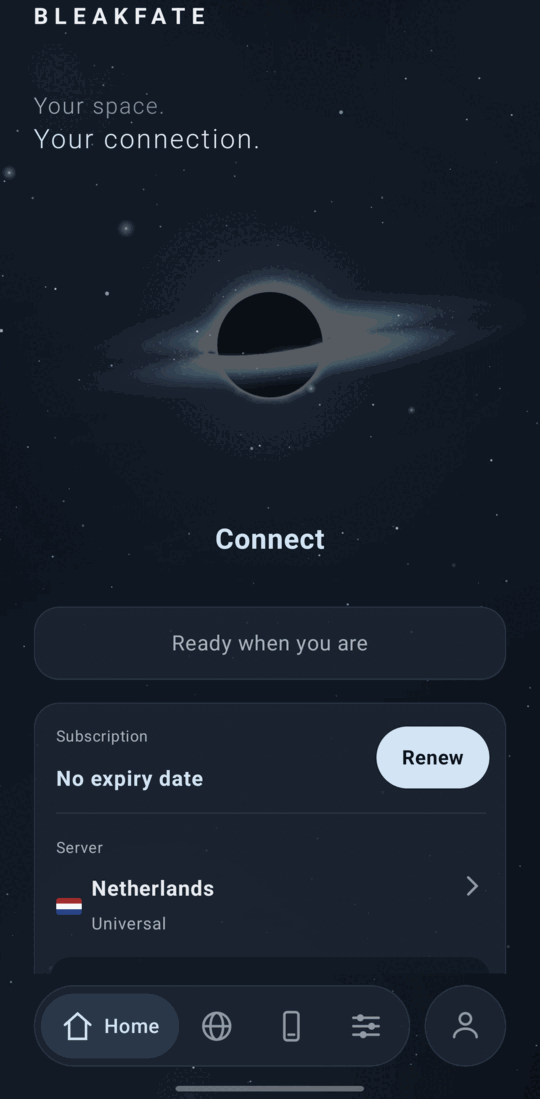
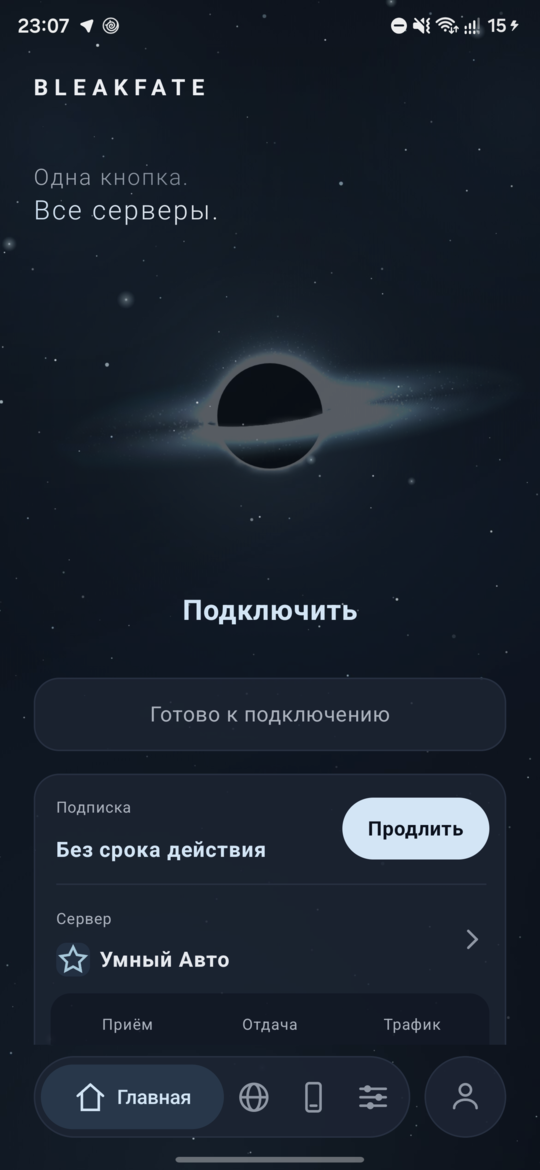
Скриншоты версии 0.8.2 на русском
Что изменилось для человека: на странице настоящие скриншоты 0.8.2 — «Главная» с выключенным и включённым VPN,
«Серверы», «Настройки».

Как проверить: открыть README.

diff --git a/README.ru.md b/README.ru.md
@@ -31,10 +31,10 @@
 
 <p align="center">
   <img src=".github/readme/screens/home-off.png" width="24%" alt="Главная с выключенным VPN: тёмная чёрная дыра и кнопка «Подключить»">
-  <img src=".github/readme/screens/home-on.png" width="24%" alt="Главная с включённым VPN: дыра светится, статус «Подключено»">
+  <img src=".github/readme/screens/home-on.png" width="24%" alt="Главная с включённым VPN: дыра светится, подключено через «Умный Авто»">
   <img src=".github/readme/screens/servers.png" width="24%" alt="Серверы: «Умный Авто» и список стран">
   <img src=".github/readme/screens/settings.png" width="24%" alt="Настройки: прокси по приложениям, оформление, соединение">
-  <br><sub>Скриншоты версии 0.7.1 с английским интерфейсом; 0.8.2 выглядит так же, кроме мелочей.</sub>
+  <br><sub>Настоящие скриншоты версии 0.8.2: «Главная» с выключенным и включённым VPN, «Серверы», «Настройки».</sub>
 </p>
 
 > [!NOTE]

diff --git a/README.md b/README.md
@@ -31,10 +31,10 @@
 
 <p align="center">
   <img src=".github/readme/screens/home-off.png" width="24%" alt="Home with the VPN off: a dark black hole and the Connect button">
-  <img src=".github/readme/screens/home-on.png" width="24%" alt="Home with the VPN on: the black hole glows, status Connected">
+  <img src=".github/readme/screens/home-on.png" width="24%" alt="Home with the VPN on: the black hole glows, connected through Smart Auto">
   <img src=".github/readme/screens/servers.png" width="24%" alt="Servers: Smart Auto and the list of countries">
   <img src=".github/readme/screens/settings.png" width="24%" alt="Settings: split tunneling, appearance, connection">
-  <br><sub>Screenshots of version 0.7.1 with the English interface; 0.8.2 looks the same apart from details.</sub>
+  <br><sub>Real screenshots of version 0.8.2 (Russian interface): Home with the VPN off and on, Servers, Settings.</sub>
 </p>
 
 > [!NOTE]
